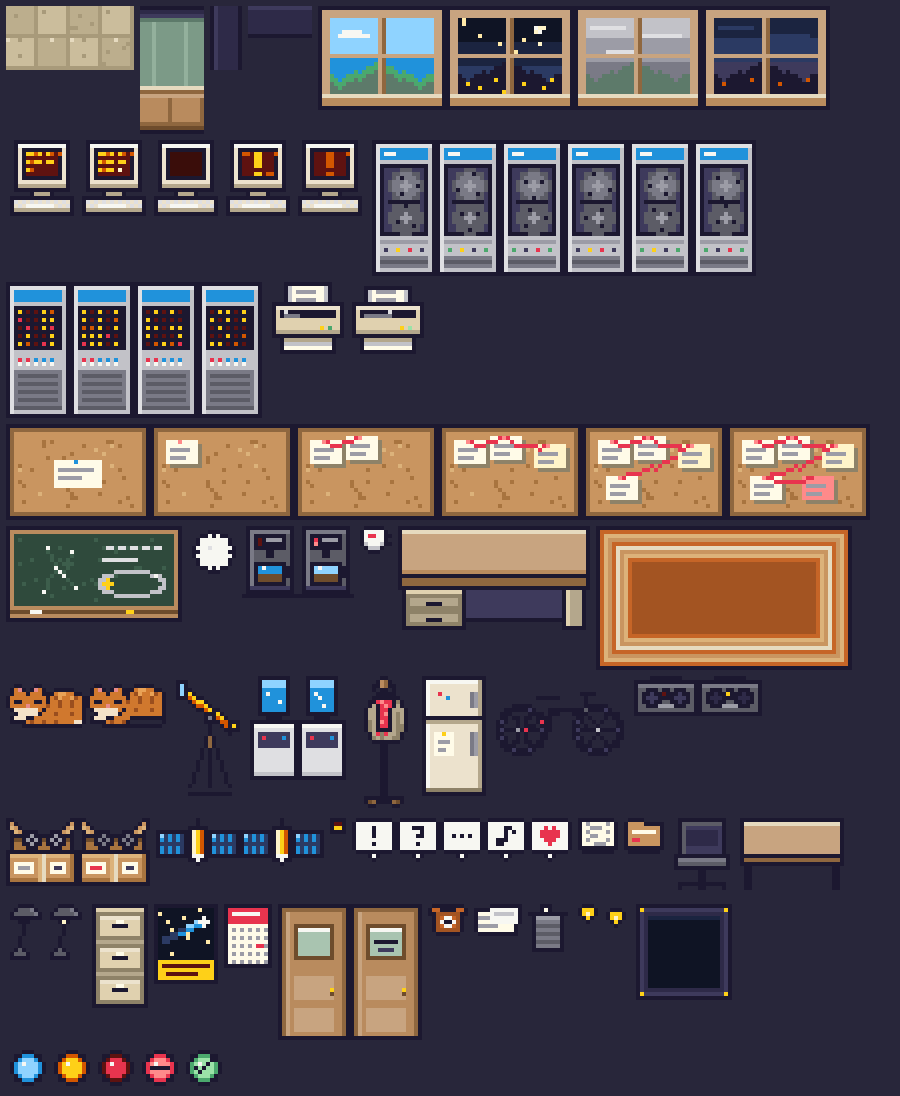
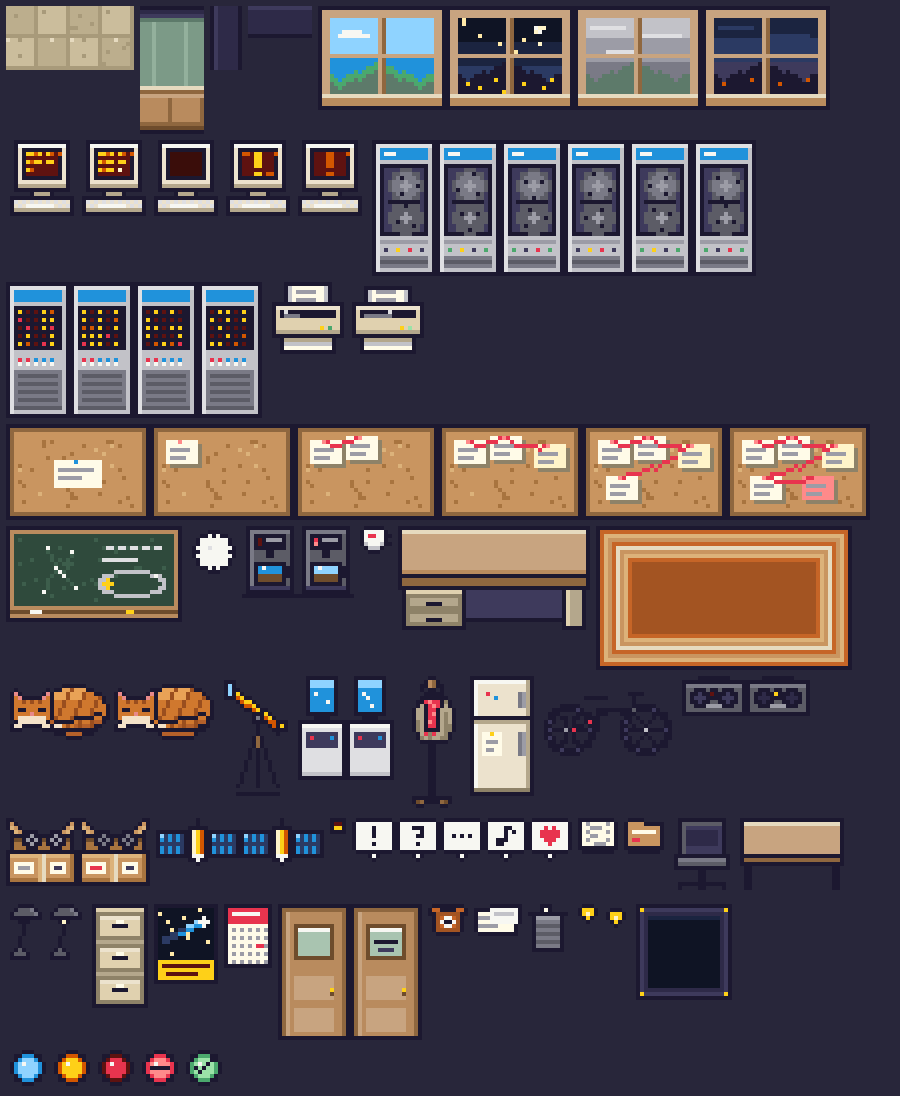
feat: gata Byte redibujada, enroscada y con contorno

Changed region(s): [[0.3733, 0.6204, 0.5911, 0.7445], [0.0, 0.6204, 0.3422, 0.7135], [0.6844, 0.6204, 0.9022, 0.6515]]

diff --git a/src/scenes/LabScene.ts b/src/scenes/LabScene.ts
@@ -377,7 +377,7 @@ export class LabScene extends Phaser.Scene {
 
     // --- Byte, la gata, durmiendo en la alfombra
     this.add.image(209, 162, "shadow").setScale(1.5, 1).setDepth(2);
-    this.catSprite = this.add.sprite(198, 148, "cat").setOrigin(0, 0).setDepth(100 + 162).play("cat-sleep");
+    this.catSprite = this.add.sprite(195, 147, "cat").setOrigin(0, 0).setDepth(100 + 162).play("cat-sleep");
     this.solid(199, 153, 19, 8);
 
     // --- telescopio de Sam junto a la ventana

diff --git a/src/scenes/BootScene.ts b/src/scenes/BootScene.ts
@@ -26,7 +26,7 @@ export class BootScene extends Phaser.Scene {
     sheet("marker", "marker.png", 7, 8);
     sheet("net_icons", "net_icons.png", 11, 11);
     sheet("lamp", "lamp.png", 10, 14);
-    sheet("cat", "cat.png", 20, 13);
+    sheet("cat", "cat.png", 26, 16);
     sheet("tapebox", "tapebox.png", 18, 17);
     sheet("satellite", "satellite.png", 21, 13);
     sheet("cooler", "cooler.png", 12, 26);

diff --git a/tools/art/build_art.py b/tools/art/build_art.py
@@ -578,34 +578,75 @@ def rug():
 
 
 def cat(frame):
-    """Byte, la gata atigrada del laboratorio, dormida y enroscada."""
-    c = Canvas(20, 13)
-    rows = [
-        "..kk...kk...........",
-        ".k14k.k41k..kkkkk...",
-        ".k111k111kkk15511kk.",
-        "k111111111k125115211k"[:20],
-        "k1kk111kk1k11211211k",
-        "k11114 1111211211211k".replace(" ", "1")[:20],
-        ".k3333331k111111111k",
-        "..k33333k1112111211k",
-        ".k333kk111111111111k",
-        ".kkkk1211211211113 3k".replace(" ", "3")[:20],
-        "....kkkkkkkkkkkkkkk.",
+    """Byte, la gata atigrada del laboratorio, dormida y enroscada. Cada parte
+    lleva su propio contorno (cuerpo, cola, cabeza) para que se lean por
+    separado. Al respirar, el lomo se hincha un píxel."""
+    W, H = 26, 16
+    c = Canvas(W, H)
+    g = [["." for _ in range(W)] for _ in range(H)]
+
+    def outline_part(cells):
+        """Dibuja una parte (dict (x,y)->color) con contorno de tinta alrededor."""
+        for (x, y) in list(cells):
+            for dx, dy in ((1, 0), (-1, 0), (0, 1), (0, -1)):
+                p = (x + dx, y + dy)
+                if p not in cells and 0 <= p[0] < W and 0 <= p[1] < H:
+                    g[p[1]][p[0]] = "k"
+        for (x, y), ch in cells.items():
+            g[y][x] = ch
+
+    # cuerpo: óvalo con luz en el lomo, sombra en la panza y rayas diagonales
+    bx, by, rx, ry = 16.5, 8.4, 8.2, 5.7 + (0.5 if frame else 0)
+    body = {}
+    for y in range(H):
+        for x in range(W):
+            if ((x - bx) / rx) ** 2 + ((y - by) / ry) ** 2 <= 1:
+                ch = "1"
+                if y >= by + ry * 0.45:
+                    ch = "6"
+                elif y <= by - ry * 0.45 and x < bx + 3:
+                    ch = "5"
+                if ch != "6" and (x + (y - 2) // 2) % 4 == 0 and x > 10:
+                    ch = "2"
+                body[(x, y)] = ch
+    outline_part(body)
+    # cola: baja por la derecha y cruza por delante, con la punta clara
+    tail = {}
+    # gruesa en la base, fina hacia la punta, con anillos
+    for x in range(12, 24):
+        thick = 2 if x >= 17 else 1
+        ys = [12] if thick == 1 else [11, 12]
+        if x >= 22:
+            ys = [10, 11]
+        for y in ys:
+            tail[(x, y)] = "2" if x % 3 == 0 else ("6" if y == ys[-1] and thick == 2 else "1")
+    for p in ((12, 12), (13, 12)):
+        tail[p] = "3"
+    outline_part(tail)
+    tail = {}
+    outline_part(tail)
+    # cabeza dibujada a mano, apoyada a la izquierda sobre las patas
+    head = [
+        ".k.......k.",
+        "k4k.....k4k",
+        "k14kkkkk41k",
+        "k112121211k",
+        "k111111111k",
+        "k1kk111kk1k",
+        "k111141111k",
+        "k133333331k",
+        ".k3333333k.",
+        "k33kkkkk33k",
+        "kkk.....kkk",
     ]
-    rows[5] = "k111141111211211211k"[:19] + "k"
-    rows[3] = "k111111111k12511521k"
-    for y, r in enumerate(rows):
-        for x, ch in enumerate(r):
+    for y, row in enumerate(head):
+        for x, ch in enumerate(row):
             if ch != ".":
-                c.put(x, y + 2, ch)
-    if frame:
-        # respira: el lomo sube un píxel
-        lomo = c.im.crop((10, 2, 20, 12))
-        c.rect(10, 1, 10, 11, ".")
-        c.im.alpha_composite(lomo, (10, 1))
-        c.put(10, 11, "k")
-        c.put(19, 11, "k")
+                g[y + 3][x + 1] = ch
+    for y in range(H):
+        for x in range(W):
+            if g[y][x] != ".":
+                c.put(x, y, g[y][x])
     return c
 
 

diff --git a/tools/art/palette.py b/tools/art/palette.py
@@ -66,6 +66,7 @@ PALETTE = {
     "3": "#f4e2c8",
     "4": "#e88a8a",
     "5": "#e9a256",
+    "6": "#b4602a",
     # verde de pizarra
     "S": "#2f4a3c",
     "V": "#3d5e4c",
